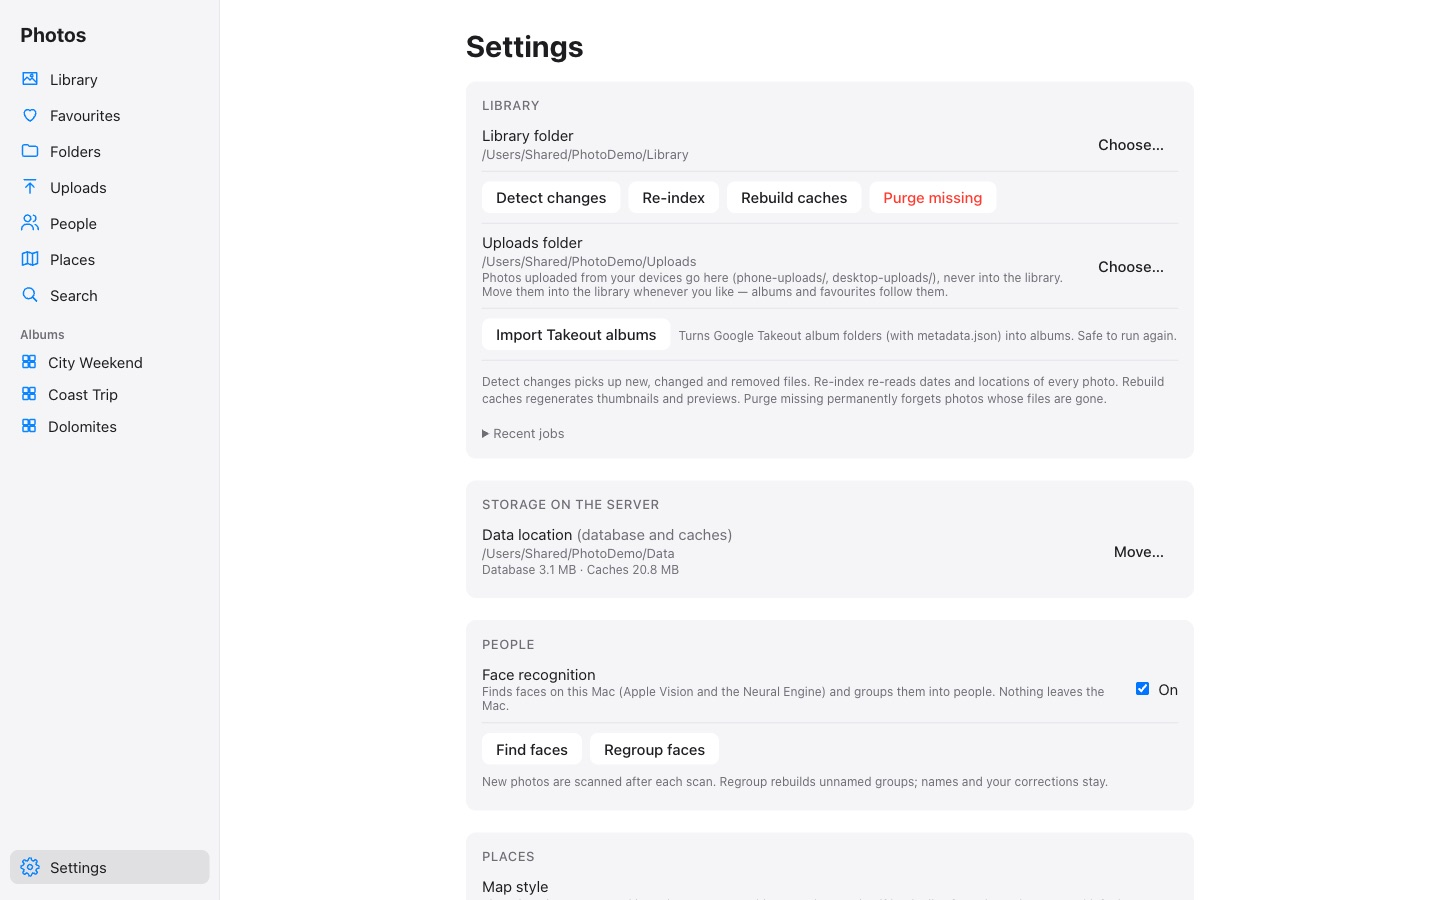
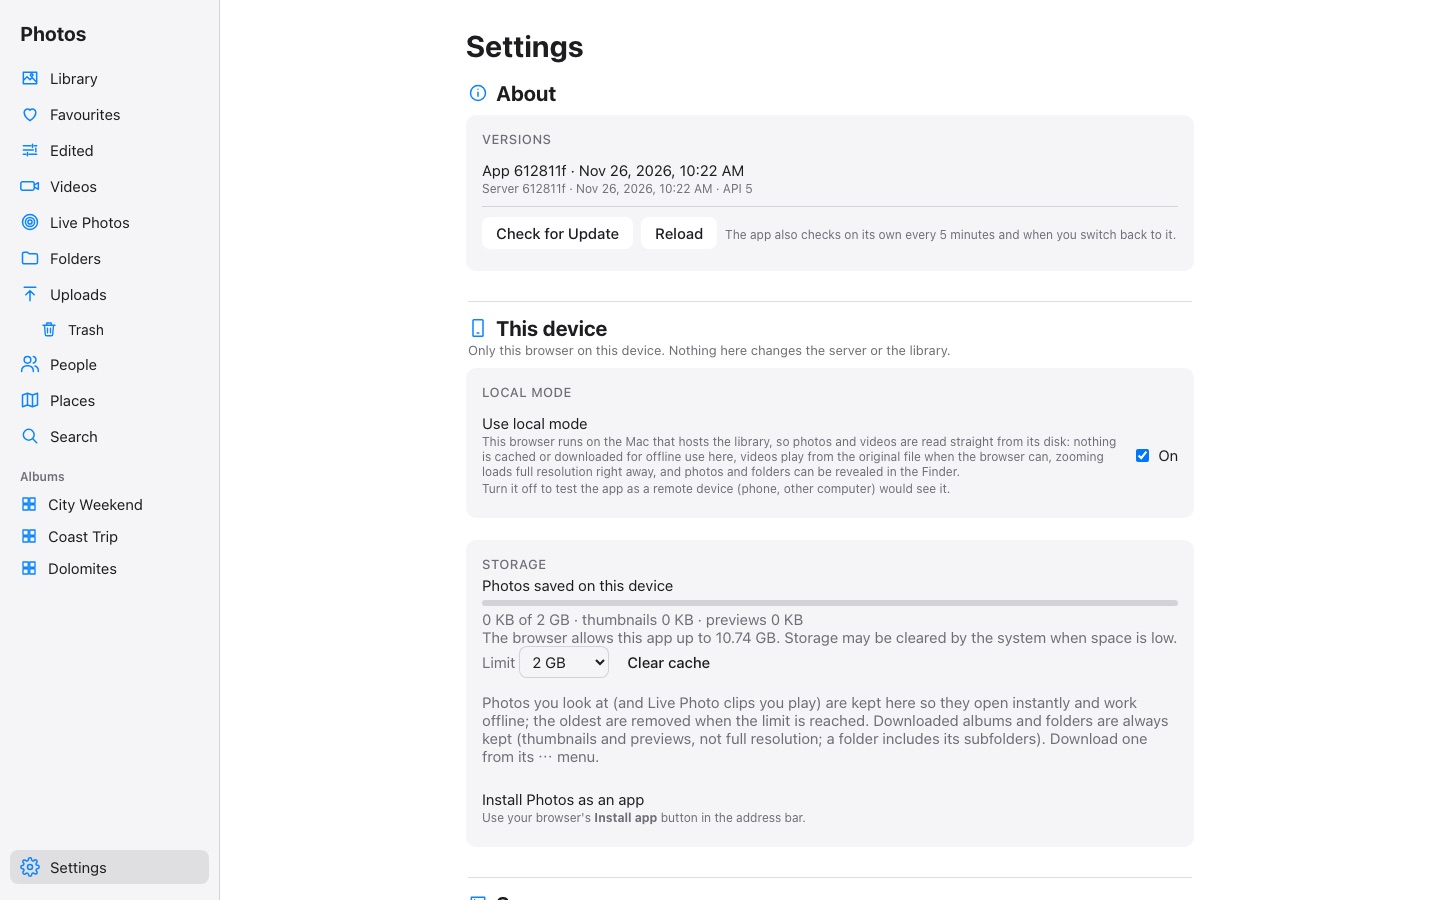
docs: README for objects, Trash, local mode, downloads, big libraries; new screenshots
New screenshots: Objects, a photo's objects in the info panel, downloading a selection,
the iPhone info sheet; refreshed library, albums, viewer and settings. The demo script
runs object recognition and shows phones as remote devices.

diff --git a/README.md b/README.md
@@ -6,7 +6,8 @@ iPhone Home Screen app, reached privately over [Tailscale](https://tailscale.com
 
 > Status: **all 6 milestones** of the [spec](docs/superpowers/specs/2026-11-25-photo-server-design.md) —
 > indexing, timeline, folders, viewer, albums, favourites, search, uploads, installable app,
-> offline mode, non-destructive editing, people (face recognition) and places (map).
+> offline mode, non-destructive editing, people (face recognition) and places (map); since then
+> object recognition, a Trash for uploads, local mode on the Mac and big-library tuning.
 
 ## Screenshots
 
@@ -21,6 +22,9 @@ iPhone Home Screen app, reached privately over [Tailscale](https://tailscale.com
 | ![People on desktop](docs/screenshots/desktop-people.jpg) | ![People on iPhone](docs/screenshots/mobile-people.jpg) |
 | ![The people in a photo, in the info panel](docs/screenshots/desktop-viewer-people.jpg) | ![Places by country and city on iPhone](docs/screenshots/mobile-places-list.jpg) |
 | ![Photos on a map on desktop](docs/screenshots/desktop-places.jpg) | ![Photos on a map on iPhone](docs/screenshots/mobile-places.jpg) |
+| ![Recognised objects on desktop](docs/screenshots/desktop-objects.jpg) | ![The info sheet, swiped up on iPhone](docs/screenshots/mobile-info.jpg) |
+| ![A photo's recognised objects at the bottom of the info panel](docs/screenshots/desktop-viewer-objects.jpg) | |
+| ![Downloading a selection with edits and Live Photo videos](docs/screenshots/desktop-download.jpg) | |
 | ![Folders on desktop](docs/screenshots/desktop-folders.jpg) | |
 | ![Settings on desktop](docs/screenshots/desktop-settings.jpg) | |
 
@@ -43,19 +47,50 @@ regenerate them with `demo/take-screenshots.sh`.
 - **Photos-like UI.** Month-grouped timeline (local time where each photo was taken), pinch or
   ⌘-scroll to change density, a timeline scrubber on the right edge (drag to jump through the years)
   and a jump-to-month panel (tap the month label: years with photo counts, then months), folders with covers, a full-screen viewer with swipe, swipe-down to
-  close, pinch/double-tap zoom, info panel and original download.
+  close, pinch/double-tap zoom (and a −/+ zoom slider on desktop), info panel and original download.
+  On the iPhone, swipe up on a photo for its info sheet and swipe it down again. Zooming in loads the
+  full-resolution original in the background (progress in the corner) and swaps it in once decoded,
+  so zooming never stalls.
 - **Albums and favourites.** Create albums from a multi-selection (Select button, long-press on
   iPhone, ⌘/shift-click on desktop), reorder-safe membership by content hash, ♥ in the viewer
   (or press F). Google Takeout album folders become albums with one click.
-- **Search** across file names, folders, descriptions and album titles.
+- **Search** across file names, folders, descriptions, album titles, people, places and
+  recognised objects.
+- **Objects.** Things in photos and videos (dogs, beaches, food, mountains…) are recognised on the
+  Mac with the classifier built into macOS (Apple Vision on the Neural Engine: nothing to download,
+  nothing leaves the Mac); only confident labels are kept. They show discreetly at the bottom of the
+  info panel — click one for every photo and video showing it — and in Collections → Objects, most
+  common first. New photos are done after each scan; Settings → Objects → Find objects runs it by hand.
+- **Downloads.** Export one photo as the original or with its edits (JPEG/HEIC, full resolution),
+  or select several and download them: edited photos with or without edits, plus each Live
+  Photo's video (.MOV named like the still) if wanted. Edited stills keep the Live Photo's content
+  identifier, so importing the photo and its .MOV together into Photos on a Mac gives the Live Photo
+  back. On the iPhone files go through the share sheet (a web app can't save Live Photos, so they
+  arrive as a photo and a video).
 - **Uploads.** Upload from the iPhone photo picker or drag files/folders onto the desktop window.
   Uploads go to a separate uploads folder (`phone-uploads/`, `desktop-uploads/`), are de-duplicated
   by content hash, and keep their albums and favourites if you later move them into the library.
+- **Trash for uploads.** Uploaded photos (only those — the library is never changed) can be
+  deleted: they move to a hidden `.trash` folder inside the uploads folder and wait in Trash (in
+  Collections and under Uploads in the sidebar) for 30 days. Restore puts them back with their
+  albums, favourites and edits; Delete permanently or Empty Trash removes the files from disk.
+  Uploading a photo that is in the Trash restores it.
 - **Works offline.** The catalog is kept on the device and updated with small deltas; photos you
-  look at are cached (size limit and Clear in Settings → This device). **Download** an album or a
-  folder (with its subfolders) from its ⋯ menu to keep its thumbnails and previews, with progress
-  shown under the title (and a confirmation above 500 photos); offline the app opens without a
-  network and is view-only.
+  look at are cached (size limit, Clear cache and Remove offline downloads in Settings → This
+  device). **Download** an album or a folder (with its subfolders) from its ⋯ menu to keep its
+  thumbnails and previews, with progress shown under the title (and a confirmation above 500
+  photos); offline the app opens without a network and is view-only.
+- **Big libraries.** Built for ~100k photos: the first install shows a "Downloading library"
+  progress card, then updates carry only what changed (changed albums; folders, people and places
+  only when they differ). Views share one index built per sync, the grid draws only what is on
+  screen, and the device cache keeps running totals and evicts least-recently-used images in batches
+  (Live Photo clips capped, thumbnails protected). On the Mac, scans resume after a restart and
+  background work pauses while you browse; face grouping scales past 100k faces.
+- **Local mode.** A browser on the Mac running the server is recognised (directly or through
+  Tailscale) and shows *Local mode*: nothing is cached or downloaded for offline use, videos play
+  from the original whenever the browser can, zoom loads full resolution at once, and photos,
+  videos, folders, uploads and the Trash have a **Reveal in Finder** button. Settings → This device
+  can switch it off to test the app as a phone would see it.
 - **Non-destructive editor.** Light (exposure, brilliance, highlights, shadows, brightness,
   contrast, black point), colour (saturation, vibrance, warmth, tint), tone curve, sharpness,
   vignette, crop with aspect presets, straighten, rotate, flip, Auto, undo/redo, hold to compare,
@@ -83,6 +118,8 @@ regenerate them with `demo/take-screenshots.sh`.
 - **Installable** to the iPhone Home Screen (Share → Add to Home Screen) or the Dock / app list.
 - **Everything configured in the browser:** library folder (server-side folder picker), refresh
   jobs (Detect changes, Re-index, Rebuild caches, Purge missing), data location with “Move…”.
+  Settings is split into About, This device (only this browser) and Server (shared by every
+  device).
 - **Versioned API.** Every response carries the API version; if the app and server don't match,
   the app asks you to update (a reload — the server serves the app).
 
